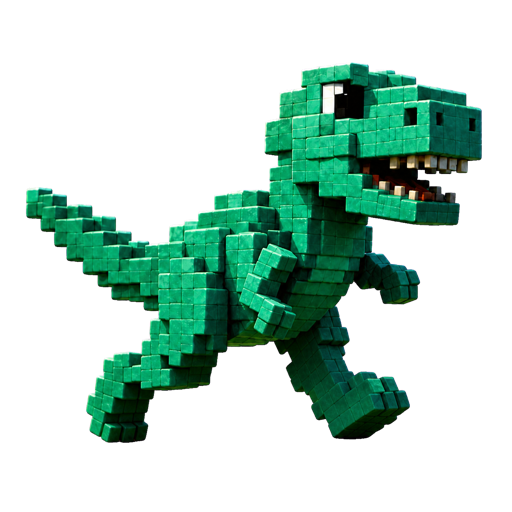
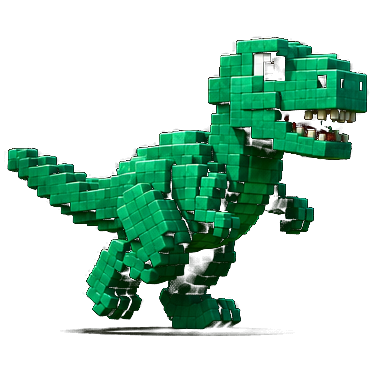
Use eight-frame classic run cycle

diff --git a/game.js b/game.js
@@ -47,7 +47,7 @@
   let highScore = Number(localStorage.getItem('dino-high-score') || 0);
   let totalCoins = Number(localStorage.getItem('dino-total-coins') || 0);
   const SKINS = [
-    { id: 'classic', name: 'КЛАССИЧЕСКИЙ', price: 0, color: '#07977e', accent: '#52c66d', image: 'assets/skins/classic.jpg', gameSprites: ['assets/game-skins/classic.png', 'assets/game-skins/classic-run-2.png'] },
+    { id: 'classic', name: 'КЛАССИЧЕСКИЙ', price: 0, color: '#07977e', accent: '#52c66d', image: 'assets/skins/classic.jpg', gameSprites: ['assets/game-skins/classic-run-1.png', 'assets/game-skins/classic-run-2.png', 'assets/game-skins/classic-run-3.png', 'assets/game-skins/classic-run-4.png', 'assets/game-skins/classic-run-5.png', 'assets/game-skins/classic-run-6.png', 'assets/game-skins/classic-run-7.png', 'assets/game-skins/classic-run-8.png'] },
     { id: 'desert', name: 'ПУСТЫННЫЙ', price: 0, color: '#b87529', accent: '#e1a54e', image: 'assets/skins/desert.jpg', gameSprites: ['assets/game-skins/desert.png', 'assets/game-skins/desert-run-2.png'] },
     { id: 'ice', name: 'ЛЕДЯНОЙ', price: 0, color: '#54cbe5', accent: '#d9f8ff', image: 'assets/skins/ice.jpg' },
     { id: 'fire', name: 'ОГНЕННЫЙ', price: 0, color: '#302e34', accent: '#ff5a19', image: 'assets/skins/fire.jpg' },
@@ -509,15 +509,14 @@
     const x = Math.round(dino.x), y = Math.round(dino.y), dead = gameOver;
     const skin = SKINS.find(item => item.id === selectedSkin) || SKINS[0];
     const rasterFrames = skinSprites.get(skin.id);
-    const runningFrame = dino.grounded && !dino.ducking ? Math.floor(animTime * 9) % 2 : 0;
+    const runningFrame = dino.grounded && !dino.ducking ? Math.floor(animTime * 12) % (rasterFrames?.length || 1) : 0;
     const rasterSprite = rasterFrames?.[runningFrame] || rasterFrames?.[0];
     if (rasterSprite?.complete && rasterSprite.naturalWidth) {
       const ducking = dino.ducking && dino.grounded;
       const spriteW = ducking ? 104 : 112;
       const spriteH = ducking ? 70 : 106;
       const spriteX = x - 28;
-      const runBob = dino.grounded && !ducking && runningFrame === 1 ? 2 : 0;
-      const spriteY = y + dino.h - spriteH + 3 + runBob;
+      const spriteY = y + dino.h - spriteH + 3;
       ctx.save();
       ctx.imageSmoothingEnabled = true;
       if (dead) ctx.globalAlpha = .62;

diff --git a/index.html b/index.html
@@ -9,7 +9,7 @@
   <link rel="stylesheet" href="styles.css?v=8" />
 </head>
 <body class="menu-open">
-  <span class="app-version" aria-label="Версия приложения">v0.8.2</span>
+  <span class="app-version" aria-label="Версия приложения">v0.9.0</span>
   <main class="game-shell" aria-label="Игра Динозаврик">
     <header class="topbar">
       <div class="brand"><span class="brand-mark">D</span><span>DINO RUN</span></div>
@@ -114,6 +114,6 @@
   </main>
   <script src="telegram.js?v=8"></script>
   <script src="cloud-sync.js?v=8"></script>
-  <script src="game.js?v=13"></script>
+  <script src="game.js?v=14"></script>
 </body>
 </html>